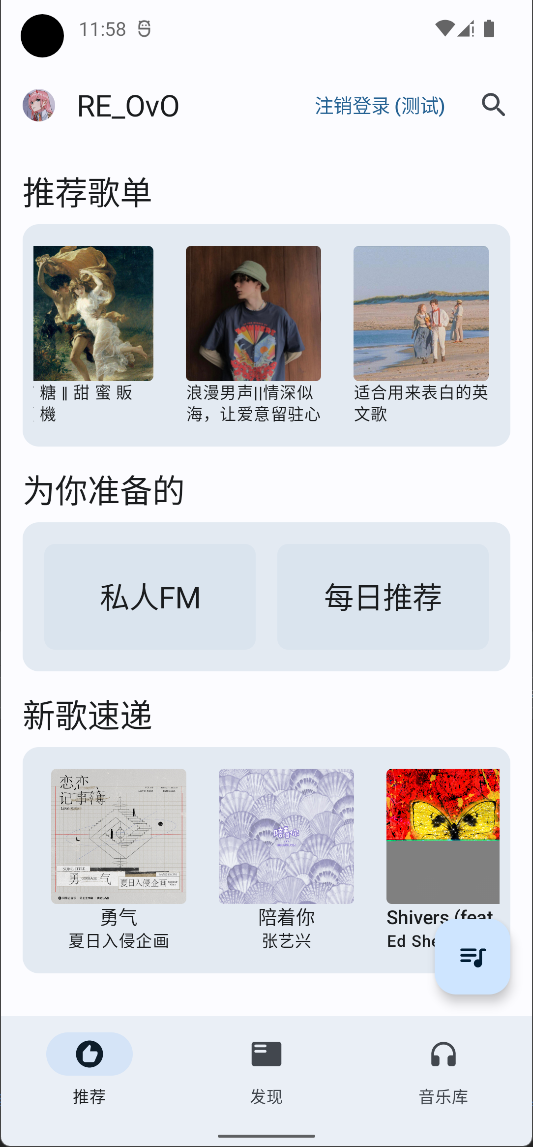
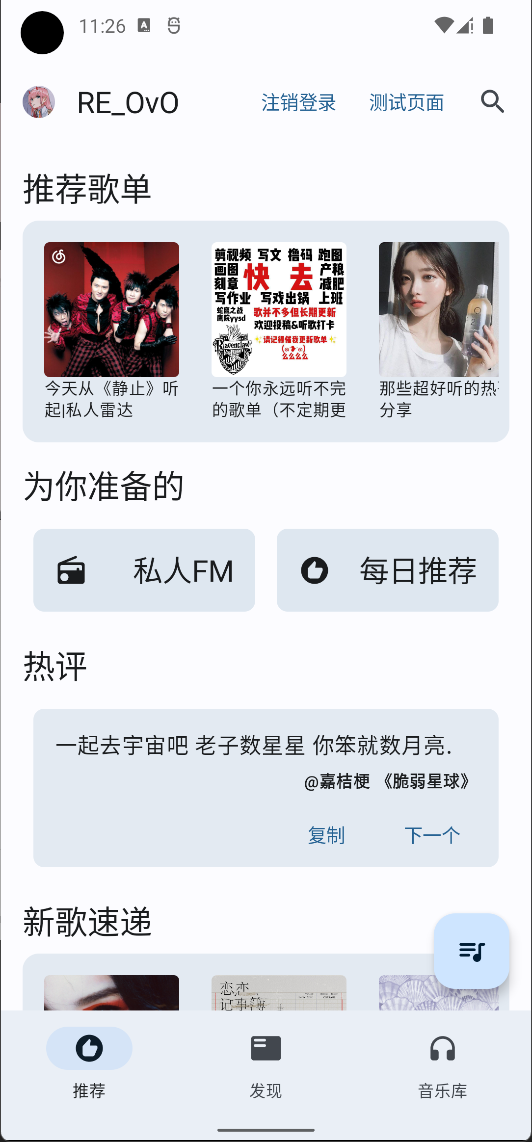
支持了热评

diff --git a/app/src/main/java/me/rerere/rainmusic/ui/screen/index/page/RecommendPage.kt b/app/src/main/java/me/rerere/rainmusic/ui/screen/index/page/RecommendPage.kt
@@ -1,5 +1,7 @@
 package me.rerere.rainmusic.ui.screen.index.page
 
+import android.net.Uri
+import androidx.compose.animation.Crossfade
 import androidx.compose.foundation.Image
 import androidx.compose.foundation.background
 import androidx.compose.foundation.clickable
@@ -22,18 +24,28 @@ import androidx.compose.ui.draw.blur
 import androidx.compose.ui.draw.clip
 import androidx.compose.ui.graphics.Color
 import androidx.compose.ui.layout.ContentScale
+import androidx.compose.ui.platform.LocalContext
+import androidx.compose.ui.text.font.FontWeight
 import androidx.compose.ui.unit.dp
+import androidx.compose.ui.unit.sp
+import androidx.media3.common.MediaItem
+import androidx.media3.common.MediaMetadata
 import coil.compose.rememberImagePainter
 import me.rerere.rainmusic.retrofit.weapi.model.PersonalizedPlaylist
 import me.rerere.rainmusic.retrofit.weapi.model.NewSongs
+import me.rerere.rainmusic.service.MusicService
 import me.rerere.rainmusic.ui.component.Banner
 import me.rerere.rainmusic.ui.component.shimmerPlaceholder
 import me.rerere.rainmusic.ui.local.LocalNavController
 import me.rerere.rainmusic.ui.local.LocalUserData
 import me.rerere.rainmusic.ui.screen.Screen
 import me.rerere.rainmusic.ui.screen.index.IndexViewModel
+import me.rerere.rainmusic.ui.states.asyncGetSessionPlayer
 import me.rerere.rainmusic.util.DataState
+import me.rerere.rainmusic.util.RainMusicProtocol
 import me.rerere.rainmusic.util.okhttp.https
+import me.rerere.rainmusic.util.setPaste
+import me.rerere.rainmusic.util.toast
 
 @Composable
 fun IndexPage(
@@ -41,7 +53,7 @@ fun IndexPage(
 ) {
     val recommendStatus by indexViewModel.personalizedPlaylist.collectAsState()
     LaunchedEffect(LocalUserData.current) {
-        if(recommendStatus !is DataState.Success) {
+        if (recommendStatus.notLoaded) {
             indexViewModel.refreshIndexPage()
         }
     }
@@ -60,11 +72,125 @@ fun IndexPage(
         }
 
         item {
+            HotComment(indexViewModel)
+        }
+
+        item {
             NewSongs(indexViewModel)
         }
 
         item {
             Toplist(indexViewModel)
+        }
+    }
+}
+
+@Composable
+private fun HotComment(indexViewModel: IndexViewModel) {
+    val hotCommentState by indexViewModel.hotComment.collectAsState()
+    val context = LocalContext.current
+    Crossfade(targetState = hotCommentState) { hotComment ->
+        Column(
+            verticalArrangement = Arrangement.spacedBy(8.dp)
+        ) {
+            Text(text = "热评", style = MaterialTheme.typography.headlineSmall)
+            Surface(
+                modifier = Modifier
+                    .fillMaxWidth()
+                    .padding(8.dp),
+                tonalElevation = 8.dp,
+                shape = RoundedCornerShape(8.dp)
+            ) {
+                Column(
+                    modifier = Modifier.padding(
+                        start = 16.dp,
+                        top = 16.dp,
+                        end = 16.dp,
+                        bottom = 0.dp // 不需要给TextButton留Padding, 那样太丑
+                    ),
+                    verticalArrangement = Arrangement.spacedBy(8.dp)
+                ) {
+                    when(hotComment){
+                        is DataState.Success -> {
+                            Text(
+                                text = hotComment.readSafely()?.data?.content ?: "",
+                                maxLines = 7,
+                                modifier = Modifier.clickable {
+                                    context.asyncGetSessionPlayer(MusicService::class.java){
+                                        it.apply {
+                                            stop()
+                                            clearMediaItems()
+                                            addMediaItem(
+                                                MediaItem.Builder()
+                                                    .setMediaId(hotComment.data.data.id)
+                                                    .setMediaMetadata(
+                                                        MediaMetadata.Builder()
+                                                            .setTitle(hotComment.data.data.song)
+                                                            .setMediaUri(Uri.parse("$RainMusicProtocol://music?id=${hotComment.data.data.id}"))
+                                                            .build()
+                                                    )
+                                                    .build()
+                                            )
+                                            prepare()
+                                            play()
+                                        }
+                                    }
+                                    context.toast("开始播放: ${hotComment.data.data.song}")
+                                }
+                            )
+                            Row(
+                                modifier = Modifier.fillMaxWidth(),
+                                verticalAlignment = Alignment.CenterVertically,
+                                horizontalArrangement = Arrangement.spacedBy(4.dp, Alignment.End)
+                            ) {
+                                Text(
+                                    text = "@${hotComment.readSafely()?.data?.name ?: ""}",
+                                    fontSize = LocalTextStyle.current.fontSize * 0.75,
+                                    fontWeight = FontWeight.Bold
+                                )
+                                Text(
+                                    text = "《${hotComment.readSafely()?.data?.song}》",
+                                    fontWeight = FontWeight.Bold,
+                                    fontSize = LocalTextStyle.current.fontSize * 0.75
+                                )
+                            }
+                        }
+                        is DataState.Loading -> {
+                            Row(
+                                verticalAlignment = Alignment.CenterVertically,
+                                horizontalArrangement = Arrangement.spacedBy(12.dp)
+                            ) {
+                                Text(text = "加载中 ~")
+                            }
+                        }
+                        is DataState.Error -> {
+                            Text(text = "加载失败: ${hotComment.exception.javaClass.simpleName}")
+                        }
+                        else -> {}
+                    }
+
+                    Row(
+                        modifier = Modifier.fillMaxWidth(),
+                        verticalAlignment = Alignment.CenterVertically,
+                        horizontalArrangement = Arrangement.spacedBy(16.dp, Alignment.End)
+                    ) {
+                        TextButton(onClick = {
+                            hotComment.readSafely()?.data?.content?.let {
+                                context.setPaste(it)
+                            }
+                        }) {
+                            Text(text = "复制")
+                        }
+
+                        TextButton(onClick = {
+                            indexViewModel.refreshHotComment()
+                        }) {
+                            Text(text = "下一个")
+                        }
+                    }
+                }
+
+            }
         }
     }
 }
@@ -307,7 +433,7 @@ private fun Toplist(indexViewModel: IndexViewModel) {
                             Column(
                                 horizontalAlignment = Alignment.CenterHorizontally,
                                 modifier = Modifier.clickable {
-                                    Screen.Playlist.navigate(navController){
+                                    Screen.Playlist.navigate(navController) {
                                         "$it/${item.id}"
                                     }
                                 }
@@ -338,7 +464,8 @@ private fun Toplist(indexViewModel: IndexViewModel) {
                             )
                         }
                     }
-                    else -> {}
+                    else -> {
+                    }
                 }
             }
         }

diff --git a/app/src/main/java/me/rerere/rainmusic/ui/screen/index/IndexViewModel.kt b/app/src/main/java/me/rerere/rainmusic/ui/screen/index/IndexViewModel.kt
@@ -6,6 +6,8 @@ import dagger.hilt.android.lifecycle.HiltViewModel
 import kotlinx.coroutines.flow.MutableStateFlow
 import kotlinx.coroutines.flow.launchIn
 import kotlinx.coroutines.flow.onEach
+import me.rerere.rainmusic.model.HotComment
+import me.rerere.rainmusic.repo.HotCommendRepo
 import me.rerere.rainmusic.repo.MusicRepo
 import me.rerere.rainmusic.repo.UserRepo
 import me.rerere.rainmusic.retrofit.api.model.Toplists
@@ -18,17 +20,21 @@ import javax.inject.Inject
 @HiltViewModel
 class IndexViewModel @Inject constructor(
     private val userRepo: UserRepo,
-    private val musicRepo: MusicRepo
+    private val musicRepo: MusicRepo,
+    private val hotCommendRepo: HotCommendRepo
 ): ViewModel() {
     // recommend page
     val personalizedPlaylist: MutableStateFlow<DataState<PersonalizedPlaylist>> = MutableStateFlow(DataState.Empty)
     val personalizedSongs: MutableStateFlow<DataState<NewSongs>> = MutableStateFlow(DataState.Empty)
     val toplist: MutableStateFlow<DataState<Toplists>> = MutableStateFlow(DataState.Empty)
+    val hotComment: MutableStateFlow<DataState<HotComment>> = MutableStateFlow(DataState.Empty)
 
     // library page
     val userPlaylist: MutableStateFlow<DataState<UserPlaylists>> = MutableStateFlow(DataState.Empty)
 
     fun refreshIndexPage(){
+        refreshHotComment()
+
         musicRepo.getPersonalizedPlaylist(10)
             .onEach {
                 personalizedPlaylist.value = it
@@ -42,6 +48,13 @@ class IndexViewModel @Inject constructor(
         musicRepo.getTopList()
             .onEach {
                 toplist.value = it
+            }.launchIn(viewModelScope)
+    }
+
+    fun refreshHotComment() {
+        hotCommendRepo.getHotCommend()
+            .onEach {
+                hotComment.value = it
             }.launchIn(viewModelScope)
     }
 

diff --git a/app/src/main/java/me/rerere/rainmusic/repo/HotCommendRepo.kt b/app/src/main/java/me/rerere/rainmusic/repo/HotCommendRepo.kt
@@ -1,0 +1,36 @@
+package me.rerere.rainmusic.repo
+
+import com.google.gson.Gson
+import kotlinx.coroutines.Dispatchers
+import kotlinx.coroutines.flow.flow
+import kotlinx.coroutines.withContext
+import me.rerere.rainmusic.model.HotComment
+import me.rerere.rainmusic.util.DataState
+import okhttp3.OkHttpClient
+import okhttp3.Request
+import javax.inject.Inject
+
+class HotCommendRepo @Inject constructor(
+    private val okHttpClient: OkHttpClient
+) {
+    private val gson = Gson()
+
+    fun getHotCommend() = flow {
+        emit(DataState.Loading)
+        try {
+            val request = Request.Builder()
+                .url("https://tenapi.cn/comment/")
+                .get()
+                .build()
+            val result = withContext(Dispatchers.IO) {
+                okHttpClient.newCall(request).execute()
+            }
+            require(result.isSuccessful)
+            val hotComment = gson.fromJson(result.body!!.string(), HotComment::class.java)
+            emit(DataState.Success(hotComment))
+        } catch (e: Exception) {
+            e.printStackTrace()
+            emit(DataState.Error(e))
+        }
+    }
+}

diff --git a/app/src/main/java/me/rerere/rainmusic/util/ContextUtil.kt b/app/src/main/java/me/rerere/rainmusic/util/ContextUtil.kt
@@ -3,7 +3,9 @@ package me.rerere.rainmusic.util
 import android.annotation.SuppressLint
 import android.app.NotificationChannel
 import android.app.NotificationManager
+import android.content.ClipData
 import android.content.ClipDescription
+import android.content.ClipboardManager
 import android.content.Context
 import android.net.ConnectivityManager
 import android.net.NetworkCapabilities
@@ -78,4 +80,14 @@ fun Context.isFreeNetwork(): Boolean {
             else -> true
         }
     } ?: true
+}
+
+fun Context.setPaste(text: String) {
+    val clipboardManager = getSystemService(Context.CLIPBOARD_SERVICE) as ClipboardManager
+    clipboardManager.setPrimaryClip(
+        ClipData.newPlainText(
+            text,
+            text
+        )
+    )
 }

diff --git a/app/src/main/java/me/rerere/rainmusic/model/HotComment.kt b/app/src/main/java/me/rerere/rainmusic/model/HotComment.kt
@@ -1,0 +1,29 @@
+package me.rerere.rainmusic.model
+
+import com.google.gson.annotations.SerializedName
+
+data class HotComment(
+    @SerializedName("code")
+    val code: Int,
+    @SerializedName("data")
+    val `data`: Data
+) {
+    data class Data(
+        @SerializedName("album")
+        val album: String,
+        @SerializedName("content")
+        val content: String,
+        @SerializedName("cover")
+        val cover: String,
+        @SerializedName("id")
+        val id: String,
+        @SerializedName("name")
+        val name: String,
+        @SerializedName("sing")
+        val sing: String,
+        @SerializedName("song")
+        val song: String,
+        @SerializedName("url")
+        val url: String
+    )
+}

diff --git a/app/src/main/java/me/rerere/rainmusic/util/DataState.kt b/app/src/main/java/me/rerere/rainmusic/util/DataState.kt
@@ -15,4 +15,7 @@ sealed class DataState<out T> {
     fun read(): T = (this as Success<T>).data
 
     fun readSafely(): T? = if (this is Success<T>) read() else null
+
+    val notLoaded: Boolean
+        get() = this is Empty || this is Error
 }
